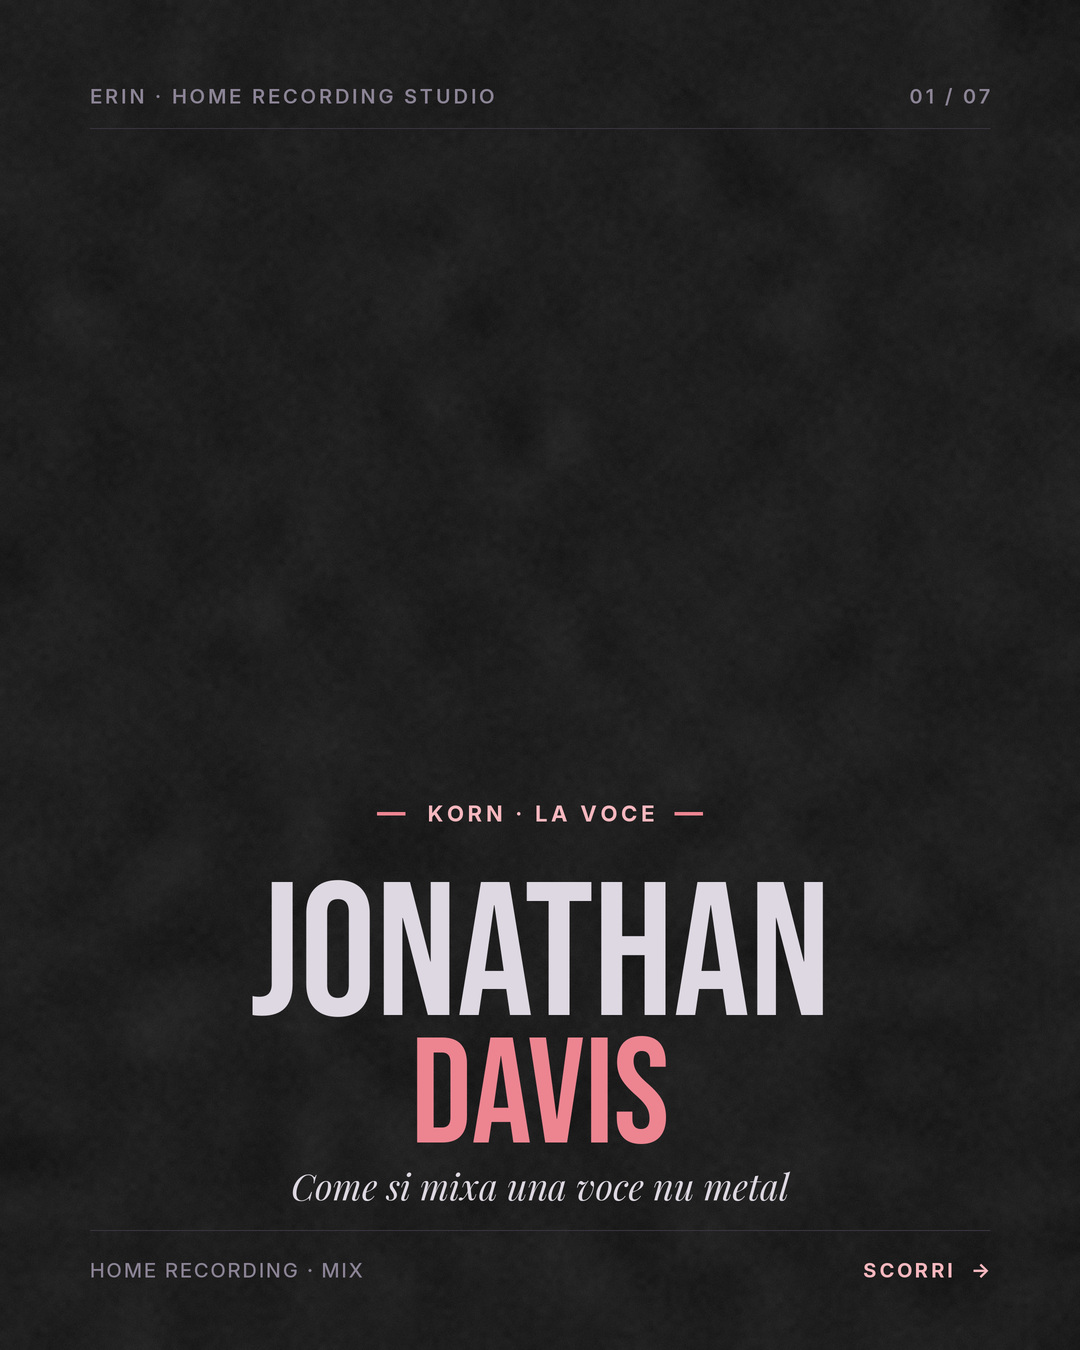
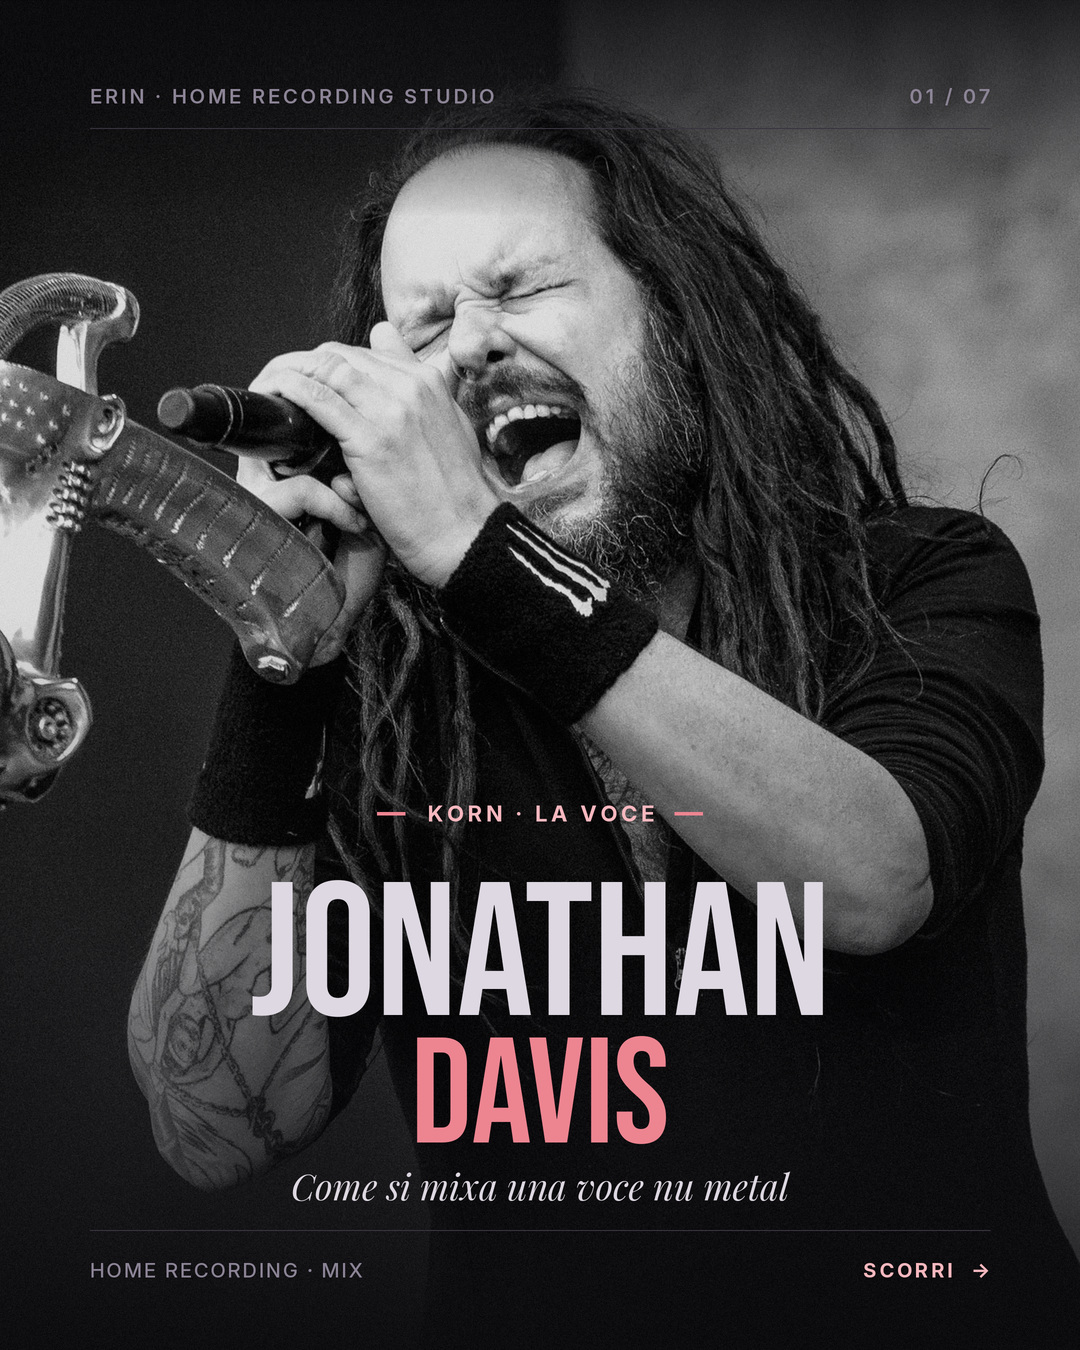
Copertine con foto per gli 8 artisti, velo più scuro sotto l'intestazione
Claude-Session: https://claude.ai/code/session_01B2PW5xtQpEv7FQVDexaPvm

diff --git a/reels/style.py b/reels/style.py
@@ -172,8 +172,8 @@ class Canvas:
         yy = np.linspace(0, 1, H, dtype=np.float32)[:, None, None]
         grad = np.clip((yy - fade_from) / (1 - fade_from), 0, 1) ** 1.2
         a = a * (1 - 0.92 * grad) + np.array(INK, np.float32) * 0.92 * grad
-        top_grad = np.clip((0.12 - yy) / 0.12, 0, 1)  # velo in alto per l'intestazione
-        a = a * (1 - 0.6 * top_grad) + np.array(INK, np.float32) * 0.6 * top_grad
+        top_grad = np.clip((0.16 - yy) / 0.16, 0, 1) ** 0.8  # velo in alto per l'intestazione
+        a = a * (1 - 0.85 * top_grad) + np.array(INK, np.float32) * 0.85 * top_grad
         a += np.random.default_rng(1).normal(0, 5, (H, W, 1)).astype(np.float32)
         self.img = Image.fromarray(np.clip(a, 0, 255).astype(np.uint8))
         self.d = ImageDraw.Draw(self.img)
